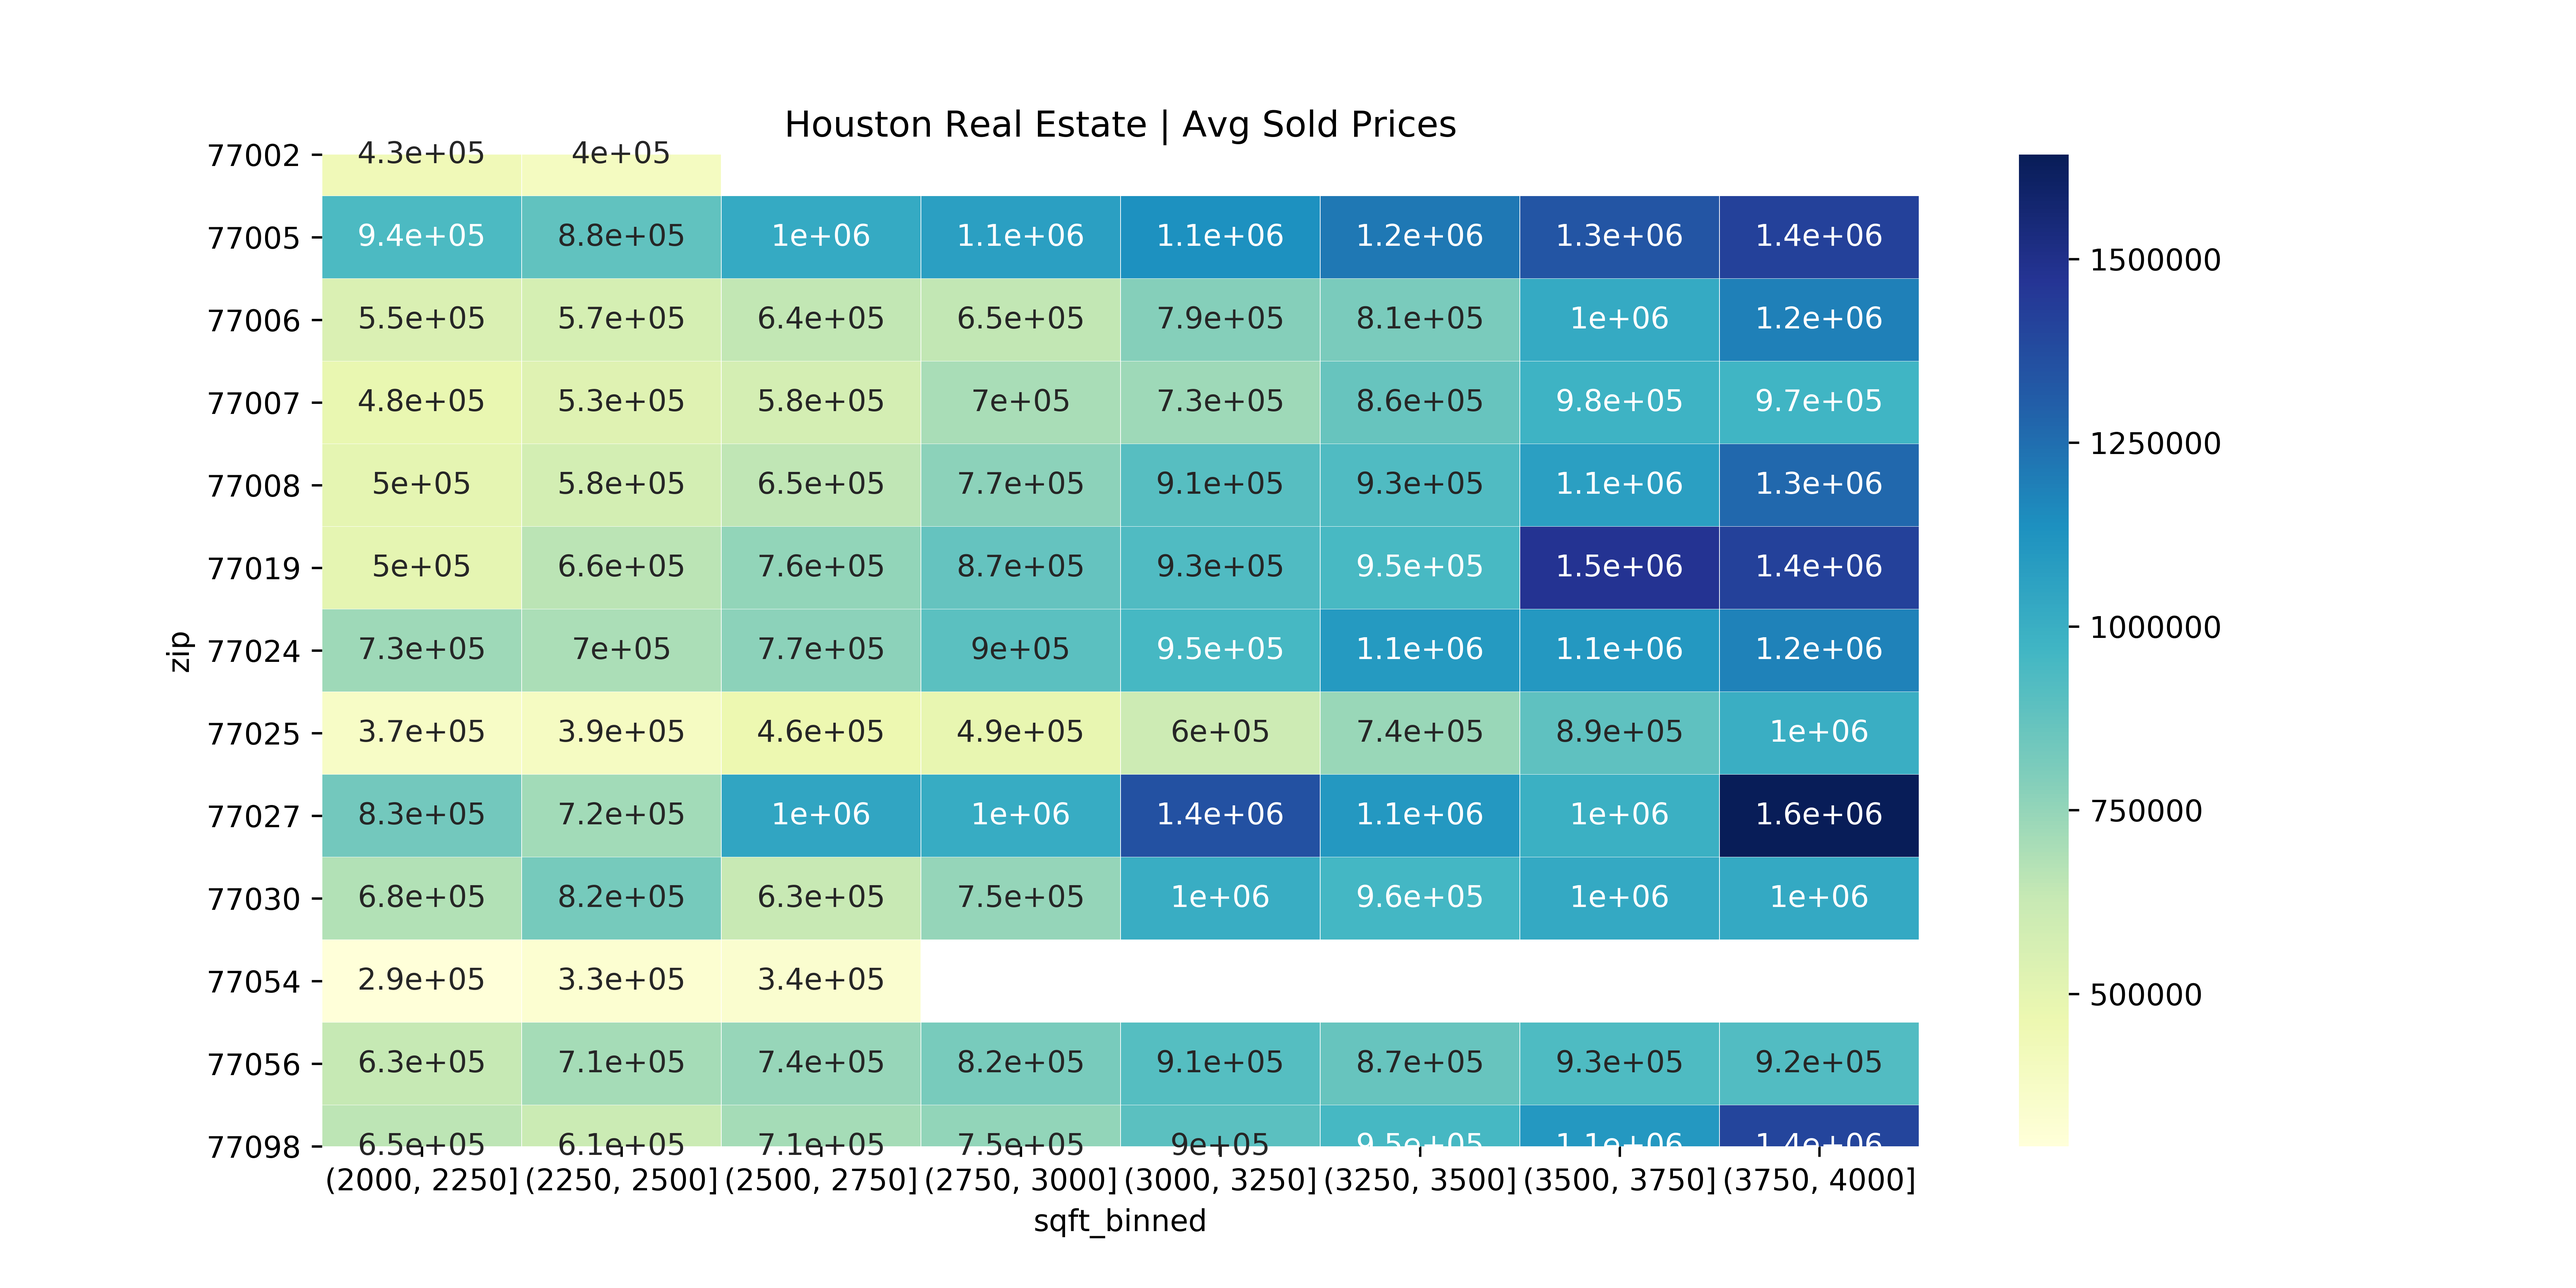
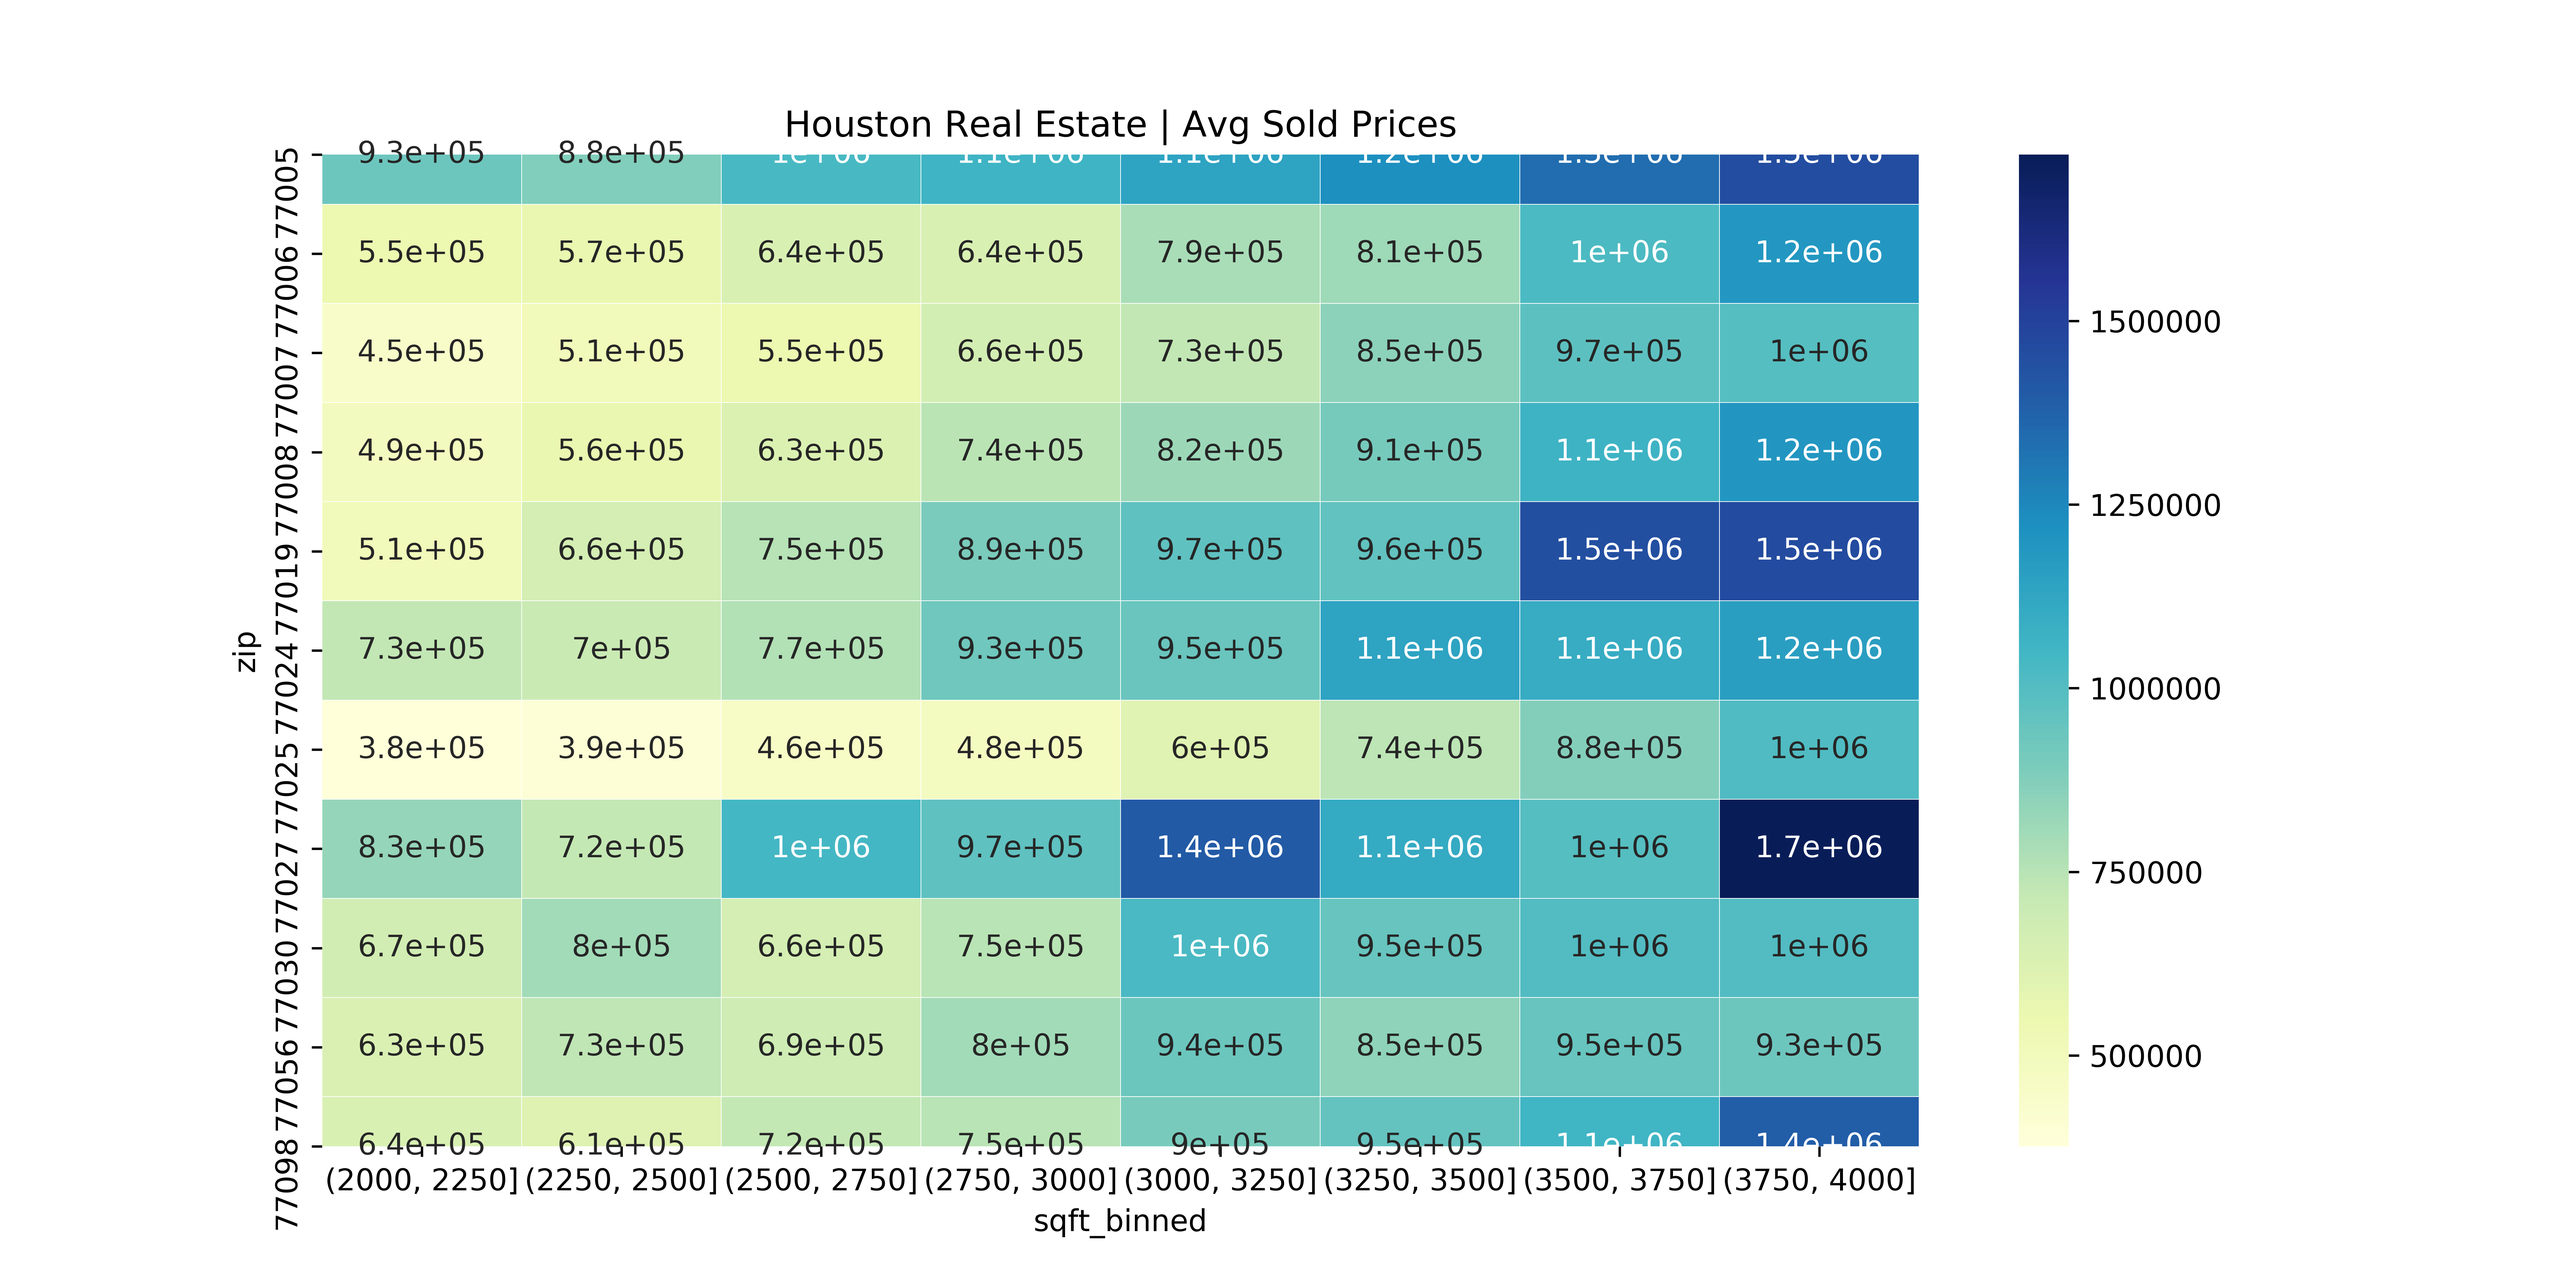
added scraping selling agent, selling company, and sold date in sold scraping

diff --git a/test2.py b/test2.py
@@ -14,7 +14,6 @@ def get_url(zip_code, page, min_p, max_p, bedroom_min, bath_min):
            'garage_desc=&price_sqft_min=&price_sqft_max=&mlsnums=&listing_officeid=&listing_agentid=&search_id=&community=&hoa_fee_max='
     return url_
 
-
 def scrape_page(url_):
 
     response = get(url_)
@@ -80,8 +79,8 @@ def scrape_page(url_):
             raise Exception('not all lists have same length in HAR_sold_scraping!')
 
     df = pd.DataFrame(prop)
+    print('im here')
     return df
-
 
 def scrape_har_sold():
 
@@ -106,3 +105,7 @@ def scrape_har_sold():
                 if df.empty: break
 
     return df_master
+
+
+temp_url='https://www.har.com/search/soldsearch?page=9&region_id=1&soldperiod=2&zip_code=77007&listing_price_min=500000&listing_price_max=700000&year_built_min=2018&for_sale=1&streetaddress=&city=&subdivisions=&nid=&map_tools_nwlat=&map_tools_nwlng=&map_tools_selat=&map_tools_selng=&map_tools_polygon=&fips_code=&schoolid=&mlsnum=&property_status=&bedroom_min=&bedroom_max=&full_bath_min=&full_bath_max=&square_feet_min=&square_feet_max=&year_built_max=&stories=&lotsize_min=&lotsize_max=&style=&acres_min=&acres_max=&garage_num=&garage_desc=&price_sqft_min=&price_sqft_max=&mlsnums=&listing_officeid=&listing_agentid=&search_id=&community=&hoa_fee_max='
+df = scrape_page(temp_url)

diff --git a/main.py b/main.py
@@ -12,6 +12,7 @@ def listing_thread():
 def sold_thread():
     print('starting sold thread')
     df = scrape_har_sold()
+    print('im here')
     pickle_df('./data/df_sold.pickle', df)
 
 def run_scraping():
@@ -30,7 +31,7 @@ def run_scraping():
 def main():
 
     run_scraping()
- #   run_analysis()
+    run_analysis()
 
 
 

diff --git a/config.py b/config.py
@@ -22,6 +22,6 @@ sqft_range = [2400, 3000]
 yr_built_range = [2016, 2020]
 
 # map file name
-map_name = 'map_jan26_1'
+map_name = 'map_jan26_2'
 
 
